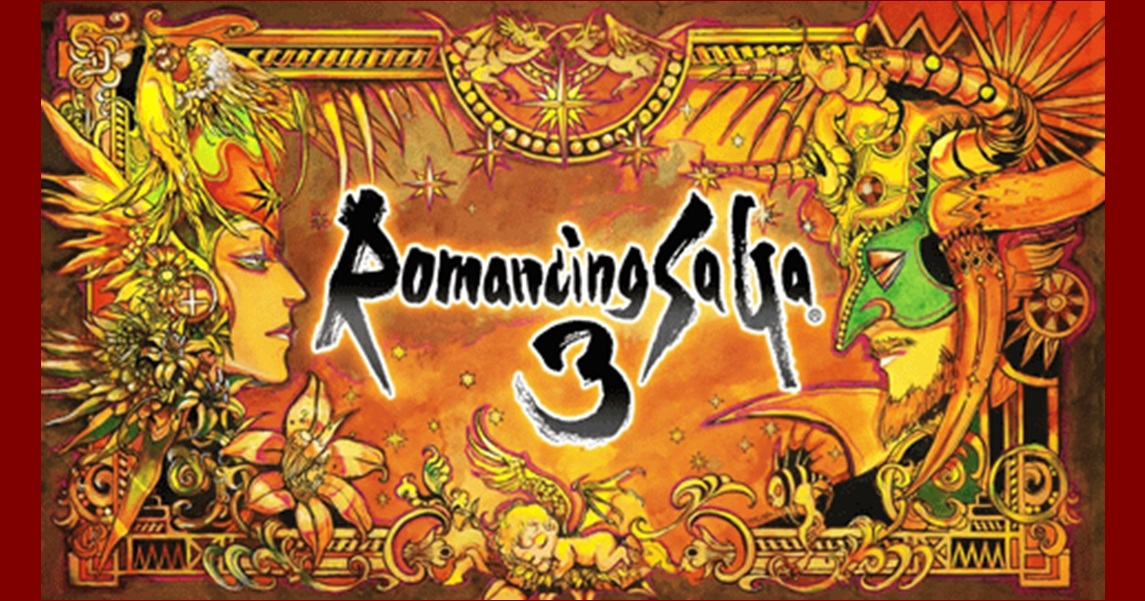
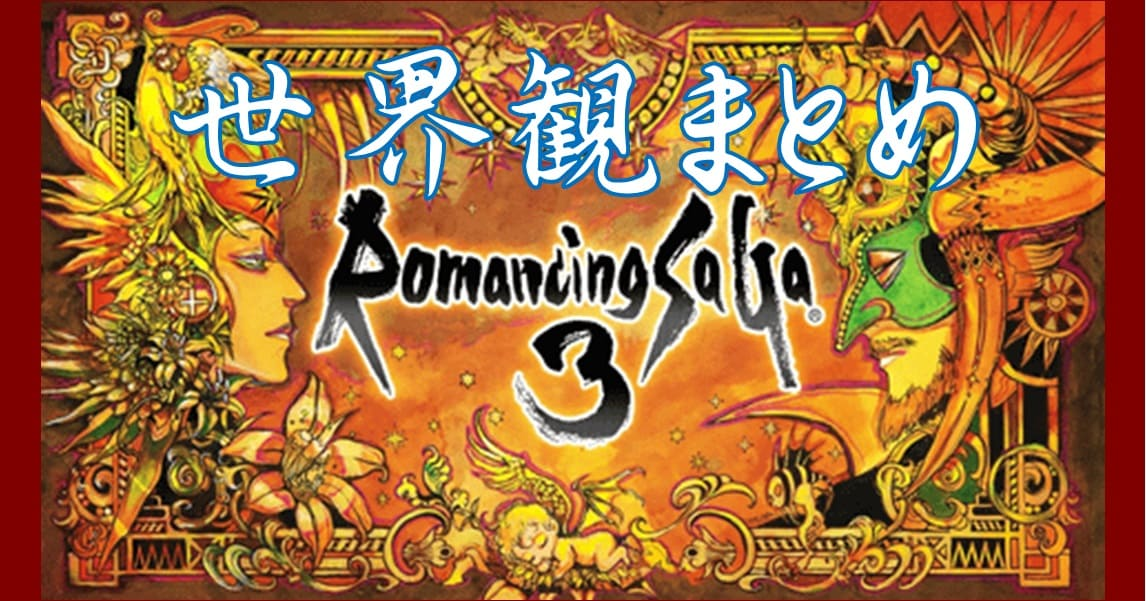
ロマサガ3記事のサムネ修正

diff --git a/contents/romasaga3/genzai/godwin.html b/contents/romasaga3/genzai/godwin.html
@@ -12,12 +12,12 @@
     <meta name="viewport" content="width=device-width, initial-scale=1">
 
     <!-- twitter投稿用の設定 -->
-    <meta name="twitter:card" content="summary_large_image" /> <!--カード種類：summary か summary_large_image-->
+    <meta name="twitter:card" content="summary" /> <!--カード種類：summary か summary_large_image-->
     <meta name="twitter:site" content="@sagamax__" /> <!--ユーザー名-->
     <meta property="og:url" content="https://taumax-github.github.io/sagamax/contents/romasaga3/genzai/godwin.html" /> <!--記事のURL-->
     <meta property="og:title" content="ロマサガ3 ゴドウィン" /> <!--記事のタイトル-->
     <meta property="og:description" content="ロマサガ3のゴドウィンについて" /> <!--記事の要約（ディスクリプション）-->
-    <meta property="og:image" content="https://taumax-github.github.io/sagamax/contents/romasaga3/twitter_card.png" /> <!--画像のURL-->
+    <meta property="og:image" content="https://taumax-github.github.io/sagamax/contents/romasaga3/img/twitter_card/godwin.jpg" /> <!--画像のURL-->
 
     <link rel="icon"       href="../../../images/favicon.ico">
     <link rel="stylesheet" href="../../../css/style.css">

diff --git a/contents/romasaga3/genzai/hulburait.html b/contents/romasaga3/genzai/hulburait.html
@@ -17,7 +17,7 @@
     <meta property="og:url" content="https://taumax-github.github.io/sagamax/contents/romasaga3/genzai/hulburait.html" /> <!--記事のURL-->
     <meta property="og:title" content="ロマサガ3 フルブライト" /> <!--記事のタイトル-->
     <meta property="og:description" content="ロマサガ3のフルブライトについて" /> <!--記事の要約（ディスクリプション）-->
-    <meta property="og:image" content="https://taumax-github.github.io/sagamax/contents/romasaga3/twitter_card.png" /> <!--画像のURL-->
+    <meta property="og:image" content="https://taumax-github.github.io/sagamax/contents/romasaga3/img/twitter_card/default.jpg" /> <!--画像のURL-->
 
     <link rel="icon"       href="../../../images/favicon.ico">
     <link rel="stylesheet" href="../../../css/style.css">

diff --git a/contents/romasaga3/genzai/razaief.html b/contents/romasaga3/genzai/razaief.html
@@ -17,7 +17,7 @@
     <meta property="og:url" content="https://taumax-github.github.io/sagamax/contents/romasaga3/genzai/razaief.html" /> <!--記事のURL-->
     <meta property="og:title" content="ロマサガ3 ラザイエフ" /> <!--記事のタイトル-->
     <meta property="og:description" content="ロマサガ3のラザイエフについて" /> <!--記事の要約（ディスクリプション）-->
-    <meta property="og:image" content="https://taumax-github.github.io/sagamax/contents/romasaga3/twitter_card.png" /> <!--画像のURL-->
+    <meta property="og:image" content="https://taumax-github.github.io/sagamax/contents/romasaga3/img/twitter_card/default.jpg" /> <!--画像のURL-->
 
     <link rel="icon"       href="../../../images/favicon.ico">
     <link rel="stylesheet" href="../../../css/style.css">

diff --git a/contents/romasaga3/index_romasaga3.html b/contents/romasaga3/index_romasaga3.html
@@ -18,7 +18,7 @@
     <meta property="og:url" content="https://taumax-github.github.io/sagamax/contents/romasaga3/index_romasaga3.html" /> <!--記事のURL-->
     <meta property="og:title" content="ロマサガ3記事index" /> <!--記事のタイトル-->
     <meta property="og:description" content="ロマサガ3記事index" /> <!--記事の要約（ディスクリプション）-->
-    <meta property="og:image" content="https://taumax-github.github.io/sagamax/contents/romasaga3/twitter_card.png" /> <!--画像のURL-->
+    <meta property="og:image" content="https://taumax-github.github.io/sagamax/contents/romasaga3/img/twitter_card/default.jpg" /> <!--画像のURL-->
 
     <link rel="icon"       href="../../images/favicon.ico">
     <link rel="stylesheet" href="../../css/style.css">
